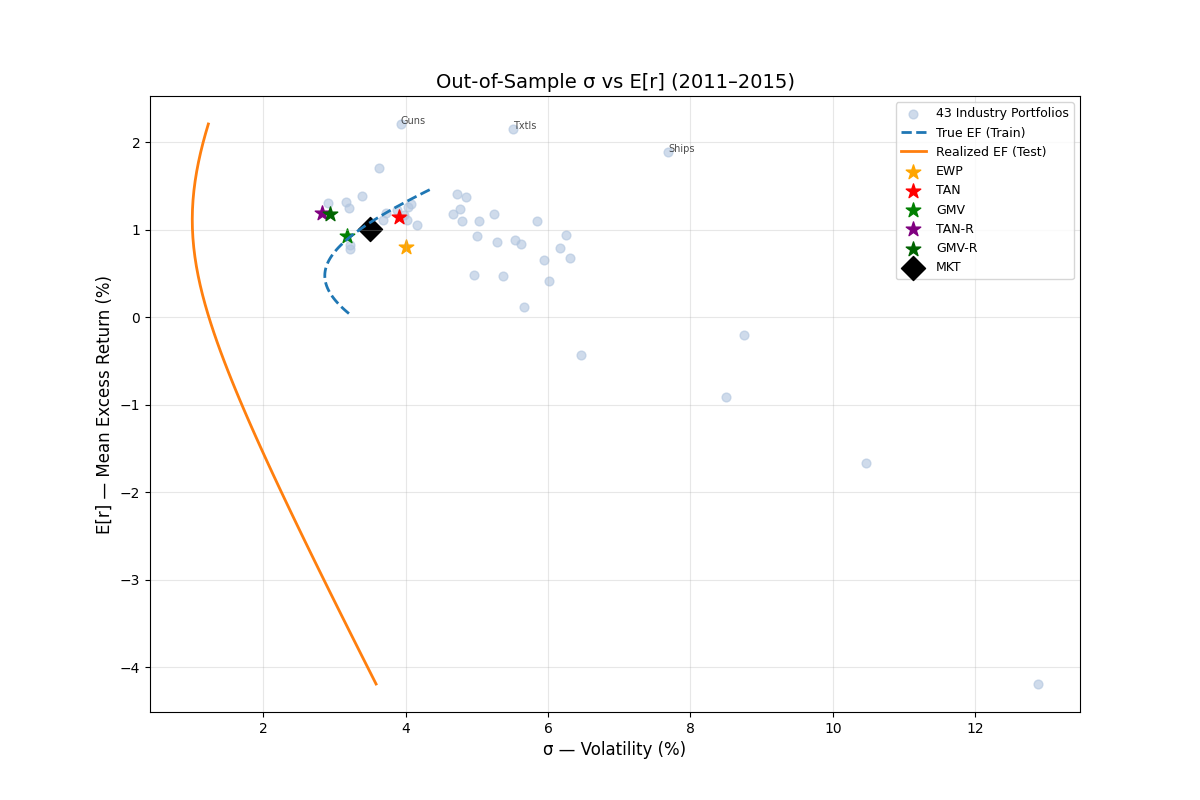
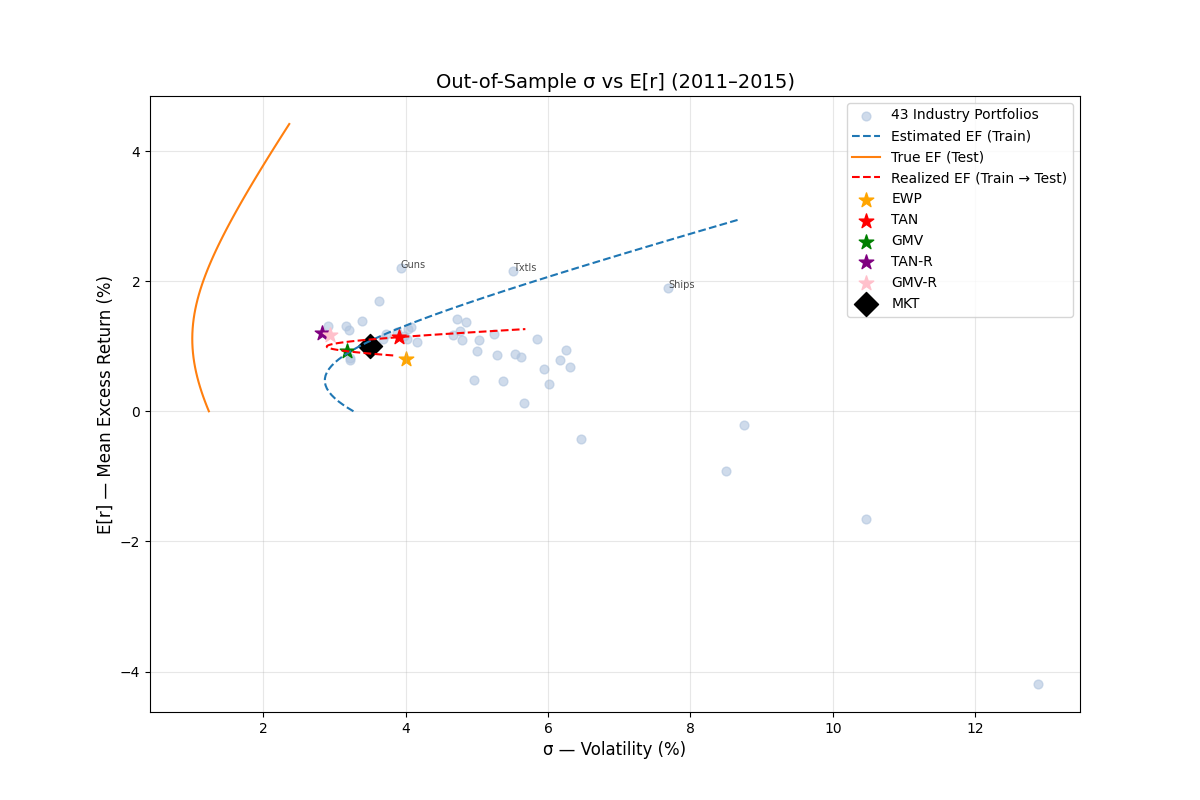
Updated M3 Graph

diff --git a/src/robust_portfolios.py b/src/robust_portfolios.py
@@ -173,7 +173,7 @@ print(df_oos)
 def efficient_frontier(mu, Sigma, points=60):
     from scipy.optimize import minimize
     
-    targets = np.linspace(mu.min(), mu.max(), points)
+    targets = np.linspace(0, mu.max()*2, points)
     sigmas = []
 
     for t in targets:
@@ -189,15 +189,46 @@ def efficient_frontier(mu, Sigma, points=60):
 
     return targets, np.array(sigmas)
 
-# ===== TRUE EF (TRAIN) =====
+def realized_frontier(mu_train, Sigma_train, r_test, points=50):
+    from scipy.optimize import minimize
+
+    targets = np.linspace(0, mu_train.max()*2, points)
+
+    realized_mu = []
+    realized_sigma = []
+
+    for t in targets:
+        res = minimize(
+            lambda w: w @ Sigma_train @ w,
+            x0=np.ones(len(mu_train))/len(mu_train),
+            constraints=[
+                {'type':'eq','fun':lambda w: w.sum()-1},
+                {'type':'eq','fun':lambda w: w @ mu_train - t}
+            ]
+        )
+
+        if res.success:
+            w = res.x
+
+            # Evaluate on TEST
+            r = r_test @ w
+            realized_mu.append(np.mean(r))
+            realized_sigma.append(np.std(r, ddof=1))
+
+    return np.array(realized_mu), np.array(realized_sigma)
+
+# ===== ESTIMATED EF (TRAIN → TRAIN) =====
 mu_train_vec = r_train.mean(axis=0)
 Sigma_train = np.cov(r_train, rowvar=False)
-mu_true, sigma_true = efficient_frontier(mu_train_vec, Sigma_train)
+mu_est, sigma_est = efficient_frontier(mu_train_vec, Sigma_train)
 
-# ===== REALIZED EF (TEST) =====
+# ===== TRUE (TEST → TEST) =====
 mu_test_vec = r_test.mean(axis=0)
 Sigma_test = np.cov(r_test, rowvar=False)
-mu_real, sigma_real = efficient_frontier(mu_test_vec, Sigma_test)
+mu_true, sigma_true = efficient_frontier(mu_test_vec, Sigma_test)
+
+# ===== REALIZED EF (TRAIN → TEST) =====
+mu_real, sigma_real = realized_frontier(mu_train_vec, Sigma_train, r_test)
 
 # ===== INDUSTRY POINTS (TEST EVALUATION) =====
 asset_mus = r_test.mean(axis=0)
@@ -221,17 +252,17 @@ for i, name in enumerate(industries):
         plt.annotate(name, (asset_sigmas[i], asset_mus[i]),
                      fontsize=7, alpha=0.7)
 
+# ===== ESTIMATED EF =====
+valid_est = ~np.isnan(sigma_est)
+plt.plot(sigma_est[valid_est], mu_est[valid_est], linestyle='--', label="Estimated EF (Train)")
+
 # ===== TRUE EF =====
 valid_true = ~np.isnan(sigma_true)
-plt.plot(sigma_true[valid_true], mu_true[valid_true],
-         linestyle='--', linewidth=2,
-         label='True EF (Train)')
+plt.plot(sigma_true[valid_true], mu_true[valid_true], linestyle='-', label="True EF (Test)")
 
 # ===== REALIZED EF =====
 valid_real = ~np.isnan(sigma_real)
-plt.plot(sigma_real[valid_real], mu_real[valid_real],
-         linestyle='-', linewidth=2,
-         label='Realized EF (Test)')
+plt.plot(sigma_real[valid_real], mu_real[valid_real], linestyle='--', color='red', label="Realized EF (Train → Test)")
 
 # ===== SPECIAL PORTFOLIOS (evaluated on TEST) =====
 def plot_point(name, w, color):
@@ -242,7 +273,7 @@ plot_point("EWP", w_ewp, "orange")
 plot_point("TAN", w_tan, "red")
 plot_point("GMV", w_gmv, "green")
 plot_point("TAN-R", w_tan_r, "purple")
-plot_point("GMV-R", w_gmv_r, "darkgreen")
+plot_point("GMV-R", w_gmv_r, "pink")
 
 # ===== MKT (TEST) =====
 mu_mkt = np.mean(mkt_test)
@@ -257,7 +288,7 @@ plt.xlabel('σ — Volatility (%)', fontsize=12)
 plt.ylabel('E[r] — Mean Excess Return (%)', fontsize=12)
 plt.title('Out-of-Sample σ vs E[r] (2011–2015)', fontsize=14)
 
-plt.legend(fontsize=9)
+plt.legend(frameon=True, fontsize=10)
 plt.grid(True, alpha=0.3)
 
 #Save figure
